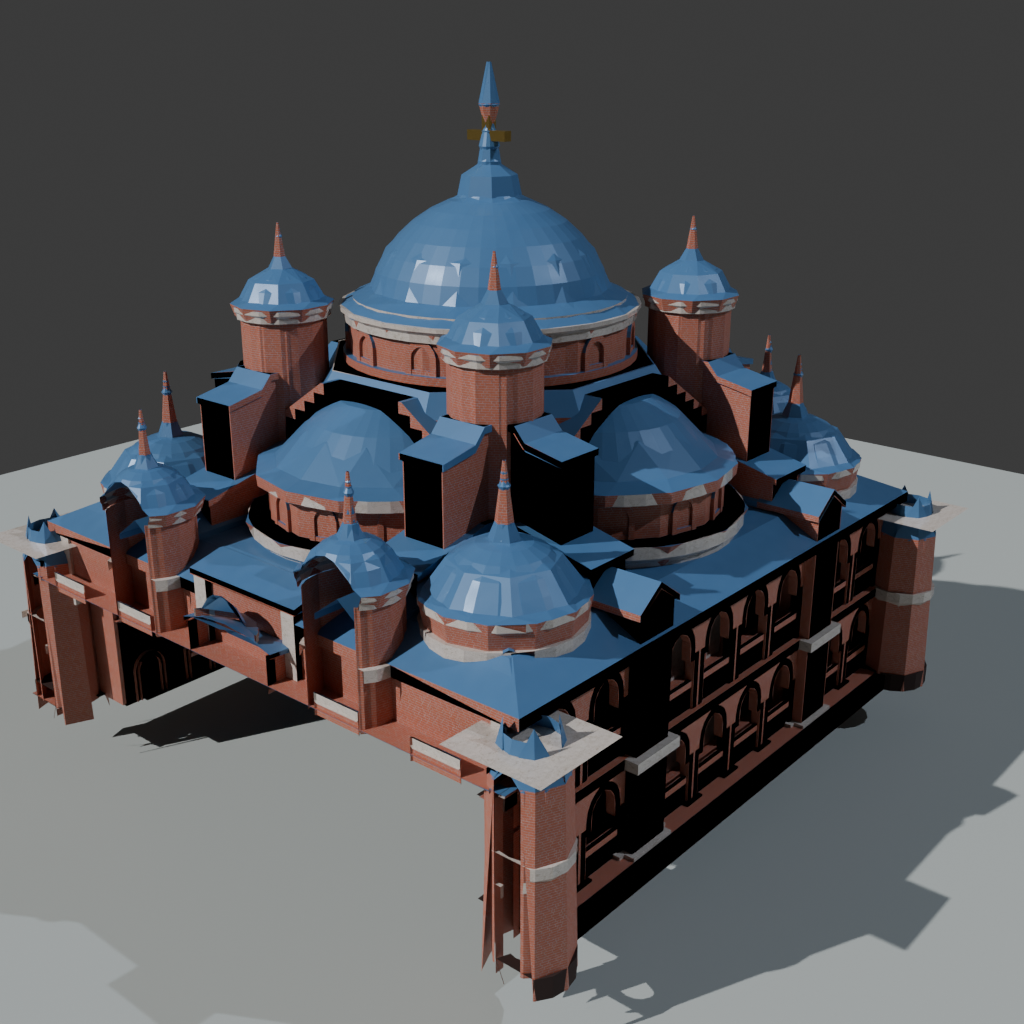
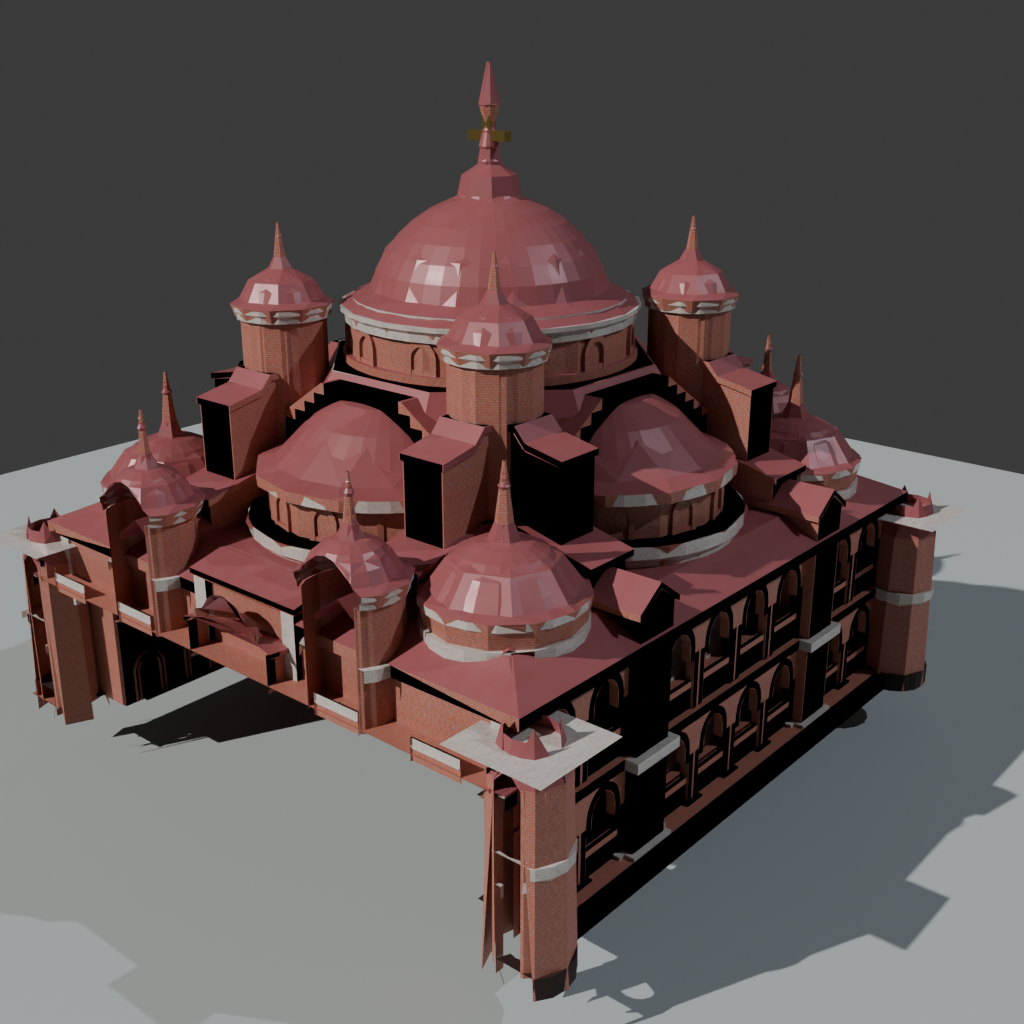
3d_art: finalize alternative Hagia Sophia blend and preview renders

Changed region(s): [[0.0, 0.3438, 0.9062, 0.7812], [0.2188, 0.0625, 0.7188, 0.3438]]

diff --git a/3d_art/src/create_alt_hagia_sophia.py b/3d_art/src/create_alt_hagia_sophia.py
@@ -5,7 +5,7 @@ the prayer hall (+Y), an arcaded courtyard of the same size again (-Y), and a
 three-domed annex off the -X side. Only the prayer hall reads as Hagia Sophia, so the
 other two are sliced away - see CUT_Y / CUT_X.
 
-Also removes the minarets, recolors domes/ceilings a lead-azure blue, adds a gold
+Also removes the minarets, recolors domes/ceilings Byzantine imperial red, adds a gold
 cross, grounds at Z=0, and bakes a unified 2K PBR texture atlas.
 """
 
@@ -159,11 +159,11 @@ def create_pbr_mat(name, color_img, norm_img, rough_img, tint_hex, tint_fac, sca
 
 # Create materials:
 # 1. Red Domes/Ceiling: Byzantine Imperial Terracotta/Crimson Red (#a82d1d)
-# Dome tint. #1d6ea8 is #a82d1d hue-rotated from red (7 deg) to azure (205 deg) with its
-# lightness (38.6%) and saturation (70.6%) left alone, so the roof keeps exactly the tonal
-# weight it had against the brick and marble. Mixed at 0.70 over the lead texture, which
-# lifts and greys it further, so it reads lighter on screen than the raw hex looks.
-mat_dome = create_pbr_mat("M_Dome", lead_c, lead_n, lead_r, "1d6ea8", 0.70, 0.8, 0.4, 0.1)
+# Dome tint: Byzantine imperial red. A blue (#1d6ea8, the same hue-rotated to azure with
+# lightness and saturation untouched) was tried and reverted - keep that hex to hand if it
+# is wanted again. Mixed at 0.70 over the lead texture, which lifts and greys it, so it
+# reads lighter on screen than the raw hex looks.
+mat_dome = create_pbr_mat("M_Dome", lead_c, lead_n, lead_r, "a82d1d", 0.70, 0.8, 0.4, 0.1)
 # 2. Byzantine Terracotta Brick Walls (#b5563d)
 mat_wall = create_pbr_mat("M_Wall", brick_c, brick_n, brick_r, "b5563d", 0.25, 1.2, 0.7, 0.0)
 # 3. Cream Antique Marble Trim (#e8cfa6)
